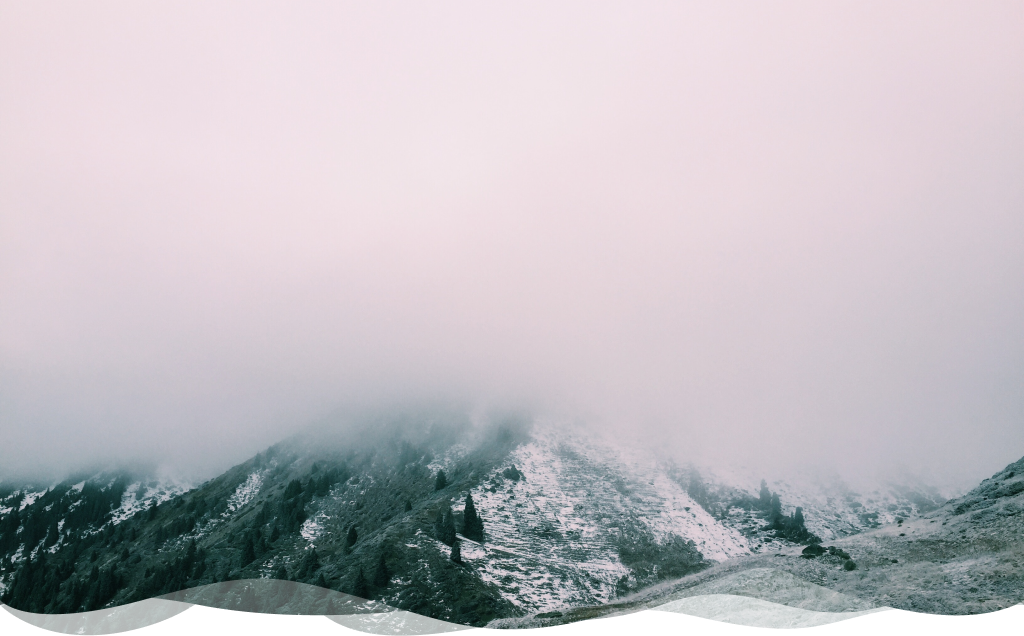
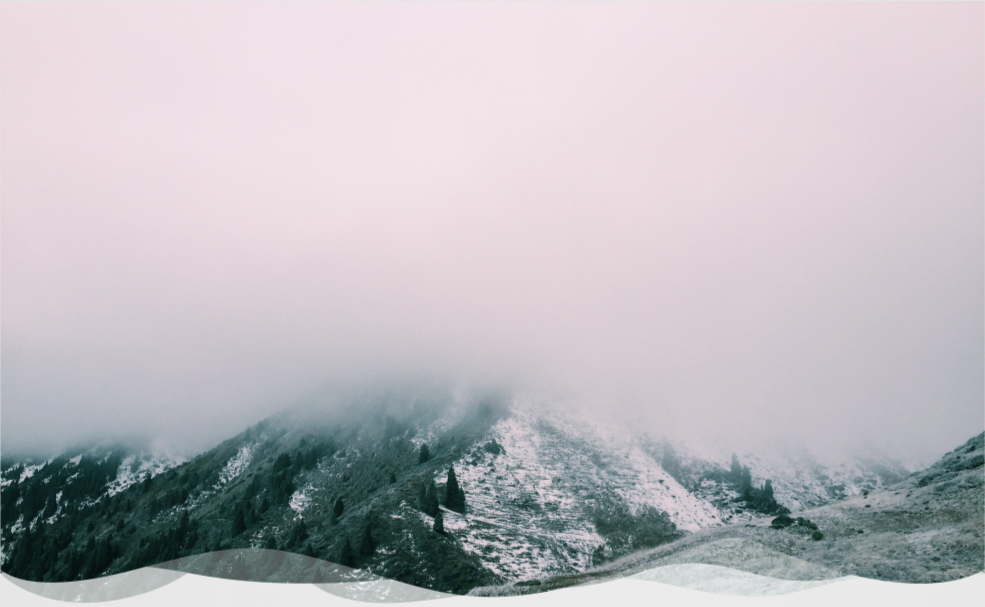
sdfv

Changed region(s): [[0.0, 0.682, 1.0, 1.0], [0.0609, 0.8896, 0.0914, 0.9193]]

diff --git a/TimeTable/static/TimeTable/css/newcss.css b/TimeTable/static/TimeTable/css/newcss.css
@@ -1,3 +1,11 @@
+
+body{
+     margin: 0;
+    background-color:  #E0E0E0;
+    font-size: 15px;
+    line-height: 1.6;
+    color: #333;
+}
 .navbar-brand {
 	font-family: 'Courgette', cursive;
 	font-size: 30px;
@@ -8,14 +16,14 @@
 
 .navbar-nav{
 	font-family: 'Chivo', sans-serif;
-	font-size: 15px;
+	font-size: 20px;
     line-height: 1.6;
     color: #333;
 }
 
 .header-img{
 	width: 100%;
-	height: 900px;
+	height: 950px;
 	background: url(../images/Group2.png) center no-repeat;
 	background-size: cover;
 }
@@ -30,12 +38,14 @@
 
 .heidth100 {
 	height: 100%;
+    width: 100%;
 }
 
 .label div {
 	width: 80%;
 }
 .p-intro{
+    text-align: center;
 	width: 60%;
 	color: black;
     font-size: 30px;
@@ -50,14 +60,26 @@
 	background-size: cover;
 }
 
+.cards{
+    background: #E5E5E5;
+}
 .dropd{
+    padding-left: 1px;
 	background: inherit;
 	color: black;
 	border: 0px solid #ced4da;
 	width: 200px;
 }
+
+.dropd::placeholder {
+  color: black;
+}
 .dropdown-menu {
 	min-width: 12.7rem;
+}
+
+.btn {
+    text-align: left;
 }
 
 .btn-secondary:hover {
@@ -95,6 +117,7 @@ hr {
 }
 
 .foot{
+    margin-top: -1%;
     background-color: #333333;
 }
 
@@ -123,8 +146,8 @@ hr {
     flex-direction: column;
     justify-content: center;
     width: 100%;
-    height: 920px;
-    background: url("../images/Group%203.png") center no-repeat;
+    height: 940px;
+    background: url("../images/Group 3.png") center no-repeat;
     background-size: cover;
 }
 

diff --git a/TimeTable/templates/TimeTable/newindex.html b/TimeTable/templates/TimeTable/newindex.html
@@ -34,7 +34,7 @@
 				<h2>HELLO TRAVELER</h2>
 		</div>
 		<div class="label mt-5 d-flex justify-content-center">
-			<p class="p-intro" style="margin-bottom: 10%;">HELLO IT WAS WE WHO BROUGHT THE MOST POPULAR EVENTS TO ALMATY. IF YOU CONSIDER YOURSELF A MUSIC LOVER, GO TO CONCERTS OF POPULAR OF ROCK MUSIC, LIKE HUMOR ON THE STAGE, YOU WILL SURELY SAVE TIME WITH US.</p>
+			<p class="p-intro" style="margin-bottom: 10%;">The most popular events in Almaty. If you go to different parties, but don’t know where to go in our city, then our site is just for you.</p>
 		</div>
 	</div>
 </div>

diff --git a/project/settings.py b/project/settings.py
@@ -80,7 +80,7 @@ DATABASES = {
         'ENGINE': 'django.db.backends.postgresql',
         'NAME': 'TimeTable',
         'USER': 'postgres',
-        'PASSWORD': 'azat',
+        'PASSWORD': 'AZAT',
         'HOST': 'localhost',
         'PORT': '5434'
     }
